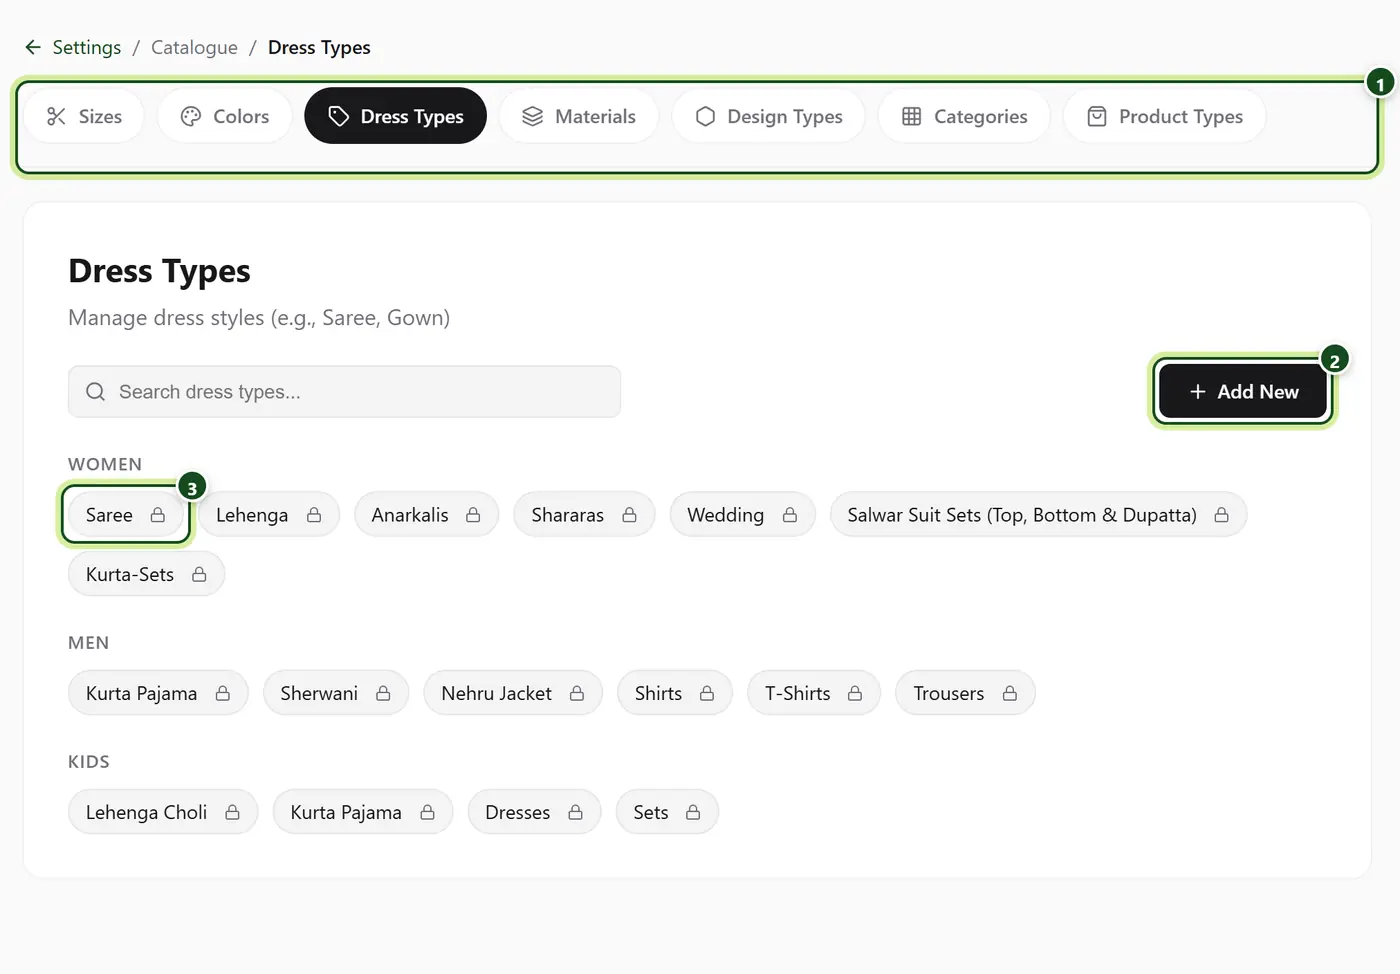
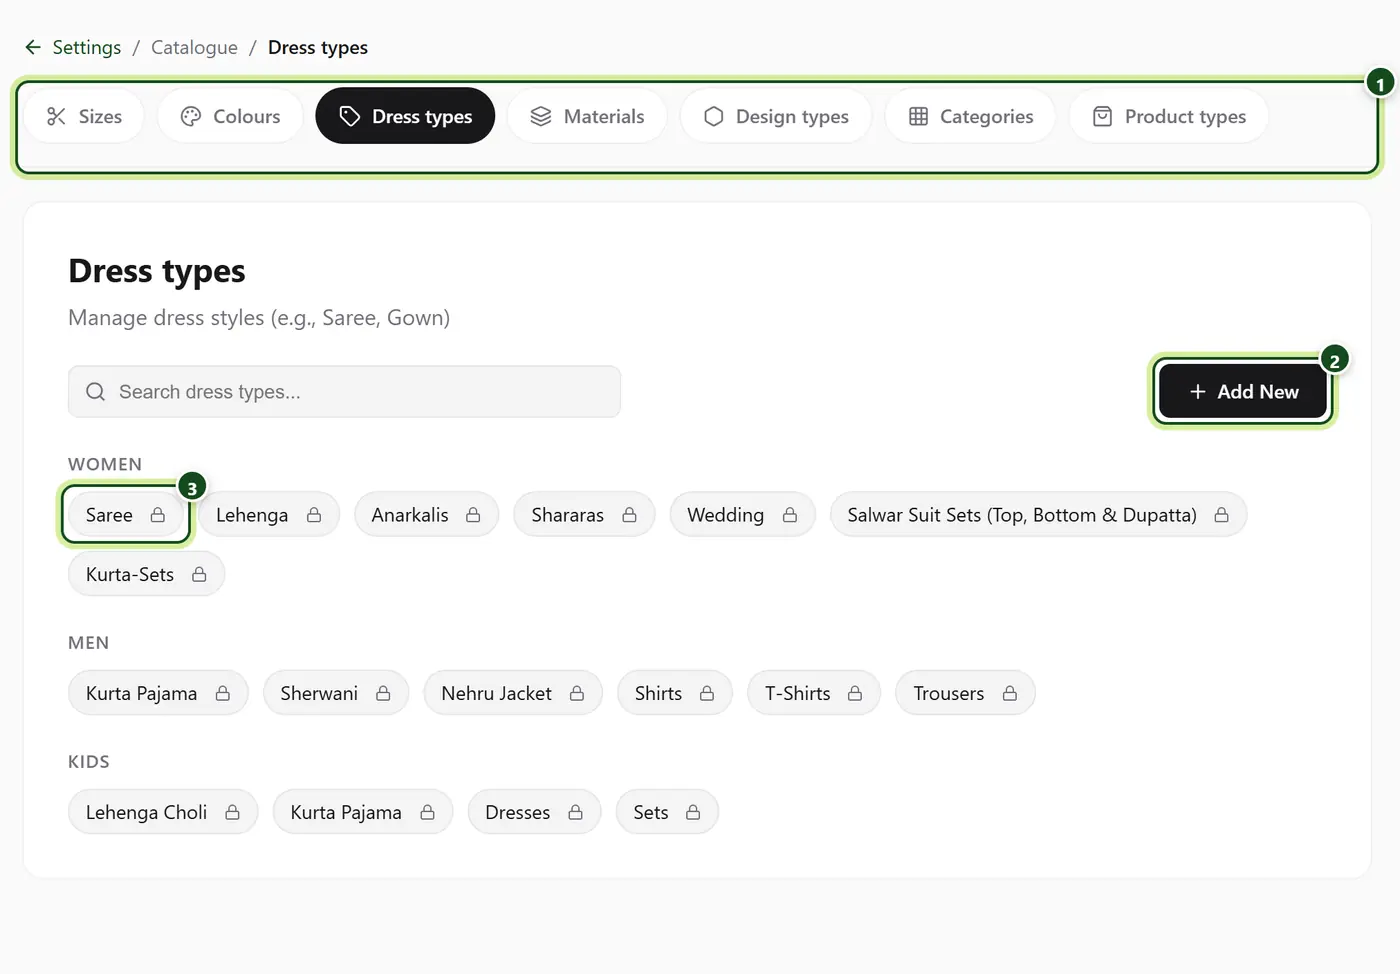
Help links in translations jump to their section (ids follow the English); Catalogue tabs named as the cards; last old Settings pointers (Payments, Catalog, Locations) renamed; Day Book store box named

diff --git a/src/help/library.js b/src/help/library.js
@@ -70,6 +70,25 @@ export const sectionBlurb = (section, lang = 'en') => section.blurbs?.[lang] || 
 
 const cache = new Map();
 
+const headingLabels = (body) => [...body.matchAll(/^#{2,3}\s+(.+)$/gm)]
+  .map(m => m[1].replace(/\[\[\d+\]\]/g, '').replace(/[*_`]/g, '').replace(/^\d{1,2}\.\s+/, '').trim());
+const faqTitles = (body) => [...body.matchAll(/^:::faq[ \t]+(.+)$/gm)].map(m => m[1].trim());
+
+/**
+ * A translated heading or question answers to its ENGLISH id. Links in every language are written
+ * #forgot-your-password, and a Telugu heading's own id is Telugu, so ~160 links in the translations
+ * jumped nowhere. check-translations already makes a translation keep the English page's headings
+ * and questions in the same order, so they pair up by position. A list whose count differs is left
+ * on its own ids rather than paired wrongly.
+ */
+function englishAnchors(body, englishBody) {
+  const map = new Map();
+  for (const [mine, theirs] of [[headingLabels(body), headingLabels(englishBody)], [faqTitles(body), faqTitles(englishBody)]]) {
+    if (mine.length === theirs.length) mine.forEach((m, i) => map.set(slugify(m), slugify(theirs[i])));
+  }
+  return map;
+}
+
 /** Every page, in menu order, in `lang` where translated and English otherwise. Pages with no English file are left out. */
 function build(lang) {
   if (cache.has(lang)) return cache.get(lang);
@@ -81,7 +100,8 @@ function build(lang) {
       if (!files?.en) continue;
       const pageLang = files[lang] ? lang : 'en';
       const { meta, body } = parseFrontmatter(files[pageLang]);
-      const english = pageLang === 'en' ? meta : parseFrontmatter(files.en).meta;
+      const en = pageLang === 'en' ? null : parseFrontmatter(files.en);
+      const english = en ? en.meta : meta;
       const page = {
         section: section.id,
         sectionTitle: sectionTitle(section, lang),
@@ -96,7 +116,8 @@ function build(lang) {
         app: english.app || '',
         appLabel: meta.appLabel || english.appLabel || '',
         keywords: `${meta.keywords || ''} ${pageLang === 'en' ? '' : english.keywords || ''}`.trim(),
-        body
+        body,
+        anchors: en ? englishAnchors(body, en.body) : null
       };
       pages.push(page);
       byPath.set(page.path, page);
@@ -151,7 +172,8 @@ export function renderPage(page) {
   const toc = [];
   const used = new Set();
   const uniqueId = (text) => {
-    const base = slugify(text) || 'section';
+    const own = slugify(text);
+    const base = page.anchors?.get(own) || own || 'section';
     let id = base;
     for (let n = 2; used.has(id); n++) id = `${base}-${n}`;
     used.add(id);
@@ -304,7 +326,8 @@ export function searchHelp(query, lang = 'en', limit = 8) {
       .map(h => ({ h, hits: words.filter(w => searchable(h).includes(w)).length }))
       .filter(x => x.hits > 0)
       .sort((a, b) => b.hits - a.hits)[0]?.h || null;
-    results.push({ page: entry.page, score, heading, anchor: heading ? slugify(heading) : null });
+    const own = heading ? slugify(heading) : null;
+    results.push({ page: entry.page, score, heading, anchor: own ? entry.page.anchors?.get(own) || own : null });
   }
   return results.sort((a, b) => b.score - a.score).slice(0, limit);
 }

diff --git a/src/components/settings/OnlineShopSettings.jsx b/src/components/settings/OnlineShopSettings.jsx
@@ -32,7 +32,7 @@ export default function OnlineShopSettings() {
   // a guess from what the keys look like. It decides whether "Online" can be switched on.
   const { data: payments } = useShopPayments();
   const payReady = !!payments?.readyForCustomers;
-  const toPayments = <Link to="/settings?section=PAYMENTS">Settings → Payments</Link>;
+  const toPayments = <Link to="/settings?section=PAYMENTS">Settings → Razorpay account</Link>;
   const setOpen = useSetShopOpen();
 
   const [slug, setSlug] = useState('');
@@ -303,7 +303,7 @@ export default function OnlineShopSettings() {
                 <span style={{ fontSize: '13px' }}>When it arrives <span style={{ color: 'var(--text-muted)' }}>(cash or UPI)</span></span>
               </label>
               {/*
-                Online, through the shop's own Razorpay account (Settings → Payments, its own section).
+                Online, through the shop's own Razorpay account (Settings → Razorpay account, its own section).
 
                 It can be switched ON only once that account can take real money -- working LIVE
                 keys -- because the server refuses otherwise and a switch that says yes and then
@@ -315,7 +315,7 @@ export default function OnlineShopSettings() {
                 background: form.payOnline ? 'var(--bg-hover)' : 'transparent',
                 opacity: payReady || form.payOnline ? 1 : 0.55,
                 cursor: payReady || form.payOnline ? 'pointer' : 'not-allowed'
-              }} title={payReady || form.payOnline ? '' : 'Connect your Razorpay account in Settings → Payments first.'}>
+              }} title={payReady || form.payOnline ? '' : 'Connect your Razorpay account in Settings → Razorpay account first.'}>
                 <input type="checkbox" checked={form.payOnline} disabled={!payReady && !form.payOnline}
                   onChange={(e) => set('payOnline', e.target.checked)} />
                 <span style={{ fontSize: '13px' }}>Online <span style={{ color: 'var(--text-muted)' }}>(UPI, card — Razorpay)</span></span>

diff --git a/src/pages/Settings.jsx b/src/pages/Settings.jsx
@@ -59,12 +59,12 @@ const IMPLEMENTED_DOMAINS = new Set(['GENERAL', 'CATALOG', 'LOCATIONS', 'DAYBOOK
 
 const CATALOG_TABS = [
   { id: 'SIZE', label: 'Sizes', icon: Scissors, description: 'Manage available sizes across your products' },
-  { id: 'COLOR', label: 'Colors', icon: Palette, description: 'Define the color palette used in your boutique' },
-  { id: 'DRESS_TYPE', label: 'Dress Types', icon: Tag, description: 'Manage dress styles (e.g., Saree, Gown)' },
+  { id: 'COLOR', label: 'Colours', icon: Palette, description: 'Define the colour palette used in your boutique' },
+  { id: 'DRESS_TYPE', label: 'Dress types', icon: Tag, description: 'Manage dress styles (e.g., Saree, Gown)' },
   { id: 'MATERIAL', label: 'Materials', icon: Layers, description: 'List the fabrics and materials you offer' },
-  { id: 'DESIGN_TYPE', label: 'Design Types', icon: Hexagon, description: 'Manage design styles and patterns' },
+  { id: 'DESIGN_TYPE', label: 'Design types', icon: Hexagon, description: 'Manage design styles and patterns' },
   { id: 'CATEGORY', label: 'Categories', icon: Grid, description: 'High-level product categories (e.g., WOMEN)' },
-  { id: 'PRODUCT_TYPE', label: 'Product Types', icon: ShoppingBag, description: 'Types of products (e.g., READY_TO_WEAR)' },
+  { id: 'PRODUCT_TYPE', label: 'Product types', icon: ShoppingBag, description: 'Types of products (e.g., READY_TO_WEAR)' },
 ];
 
 export default function Settings() {

diff --git a/src/components/shelves/DescribeShop.jsx b/src/components/shelves/DescribeShop.jsx
@@ -117,7 +117,7 @@ export default function DescribeShop({ locationId, locationName, onClose, onCrea
             <Info size={15} style={{ flexShrink: 0, marginTop: 2 }} />
             <span>
               A godown in <strong>another building</strong> is its own place in ScaleEzy, not part of this one.
-              Add it in <strong>Settings → Locations</strong>, then describe it there.
+              Add it in <strong>Settings → Stock locations</strong>, then describe it there.
               Do that if you write it down when stock goes from there to the shop; if staff simply carry
               things across, keep it here as a back room.
             </span>

diff --git a/src/pages/Measurements.jsx b/src/pages/Measurements.jsx
@@ -425,7 +425,7 @@ export default function Measurements() {
                   // A colour the shop added itself starts with no shades. The drawer used to
                   // open empty, which reads as broken rather than as "there are none".
                   <span style={{ fontSize: '12px', color: 'var(--text-muted)' }}>
-                    No shades yet — add them in Settings → Catalog.
+                    No shades yet — add them in Settings → Catalogue.
                   </span>
                 )}
               </div>

diff --git a/src/pages/DayBook.jsx b/src/pages/DayBook.jsx
@@ -251,7 +251,7 @@ export default function DayBook() {
           )}
           <div style={{ display: 'flex', alignItems: 'center', gap: '6px' }}>
             <MapPin size={15} color="var(--text-muted)" />
-            <Select className="input-field" value={locationId}
+            <Select className="input-field" aria-label="Store" value={locationId}
               onChange={(e) => setLocationId(e.target.value)}
               style={{ padding: '8px 10px', fontSize: '13px' }}>
               <option value="">All locations</option>

diff --git a/src/components/VariantTable.jsx b/src/components/VariantTable.jsx
@@ -728,7 +728,7 @@ export default function VariantTable({ productId, productName, productCode, prod
               {shadesOf(activeShadeColor).length === 0 && (
                 // A colour the shop added itself has no shades until it is given some.
                 <span style={{ fontSize: '12px', color: 'var(--text-muted)' }}>
-                  No shades yet — add them in Settings → Catalog.
+                  No shades yet — add them in Settings → Catalogue.
                 </span>
               )}
             </div>

diff --git a/src/help/content/settings/catalog-settings.hi.md b/src/help/content/settings/catalog-settings.hi.md
@@ -18,11 +18,11 @@ keywords: कैटलॉग सेटिंग साइज़ रंग कल
 
 ## 2. लिस्ट चुनें
 
-1. [[1]] जो लिस्ट चाहिए उसे दबाएँ: **Sizes**, **Colors**, **Dress Types**, **Materials**, **Design Types**, **Categories** या **Product Types**।
+1. [[1]] जो लिस्ट चाहिए उसे दबाएँ: **Sizes**, **Colours**, **Dress types**, **Materials**, **Design types**, **Categories** या **Product types**।
 2. [[2]] **Add New** इस लिस्ट में एक एंट्री जोड़ता है।
 3. [[3]] हर एंट्री एक बटन है। उसका नाम बदलने, उसे बंद करने या डिलीट करने के लिए उसे दबाएँ।
 
-![Catalogue में Dress Types। लिस्ट के बटनों की लाइन पर 1, Add New पर 2 और Saree एंट्री पर 3 का निशान है।](2-lists.webp "ड्रेस टाइप Women, Men और Kids के हिसाब से बँटे हैं।")
+![Catalogue में Dress types। लिस्ट के बटनों की लाइन पर 1, Add New पर 2 और Saree एंट्री पर 3 का निशान है।](2-lists.webp "ड्रेस टाइप Women, Men और Kids के हिसाब से बँटे हैं।")
 
 एंट्री पर छोटा ताला हो, तो वह ScaleEzy के साथ आई है। जिस एंट्री पर लाइन कटी हो, वह बंद है।
 
@@ -37,7 +37,7 @@ keywords: कैटलॉग सेटिंग साइज़ रंग कल
 
 ## 4. रंग और उसके शेड जोड़ें
 
-1. **Colors** चुनें, फिर **Add New** दबाएँ।
+1. **Colours** चुनें, फिर **Add New** दबाएँ।
 2. [[1]] **Label** टाइप करें, जैसे *Maroon*।
 3. [[2]] **Hex Color** टाइप करें, यानी रंग का कोड जैसे *#800000*, या रंग चुनने के लिए रंग वाला चौकोर खाना दबाएँ।
 4. [[3]] हर शेड के लिए **Add shade** दबाएँ। शेड का रंग चुनने के लिए छोटा चौकोर खाना दबाएँ।
